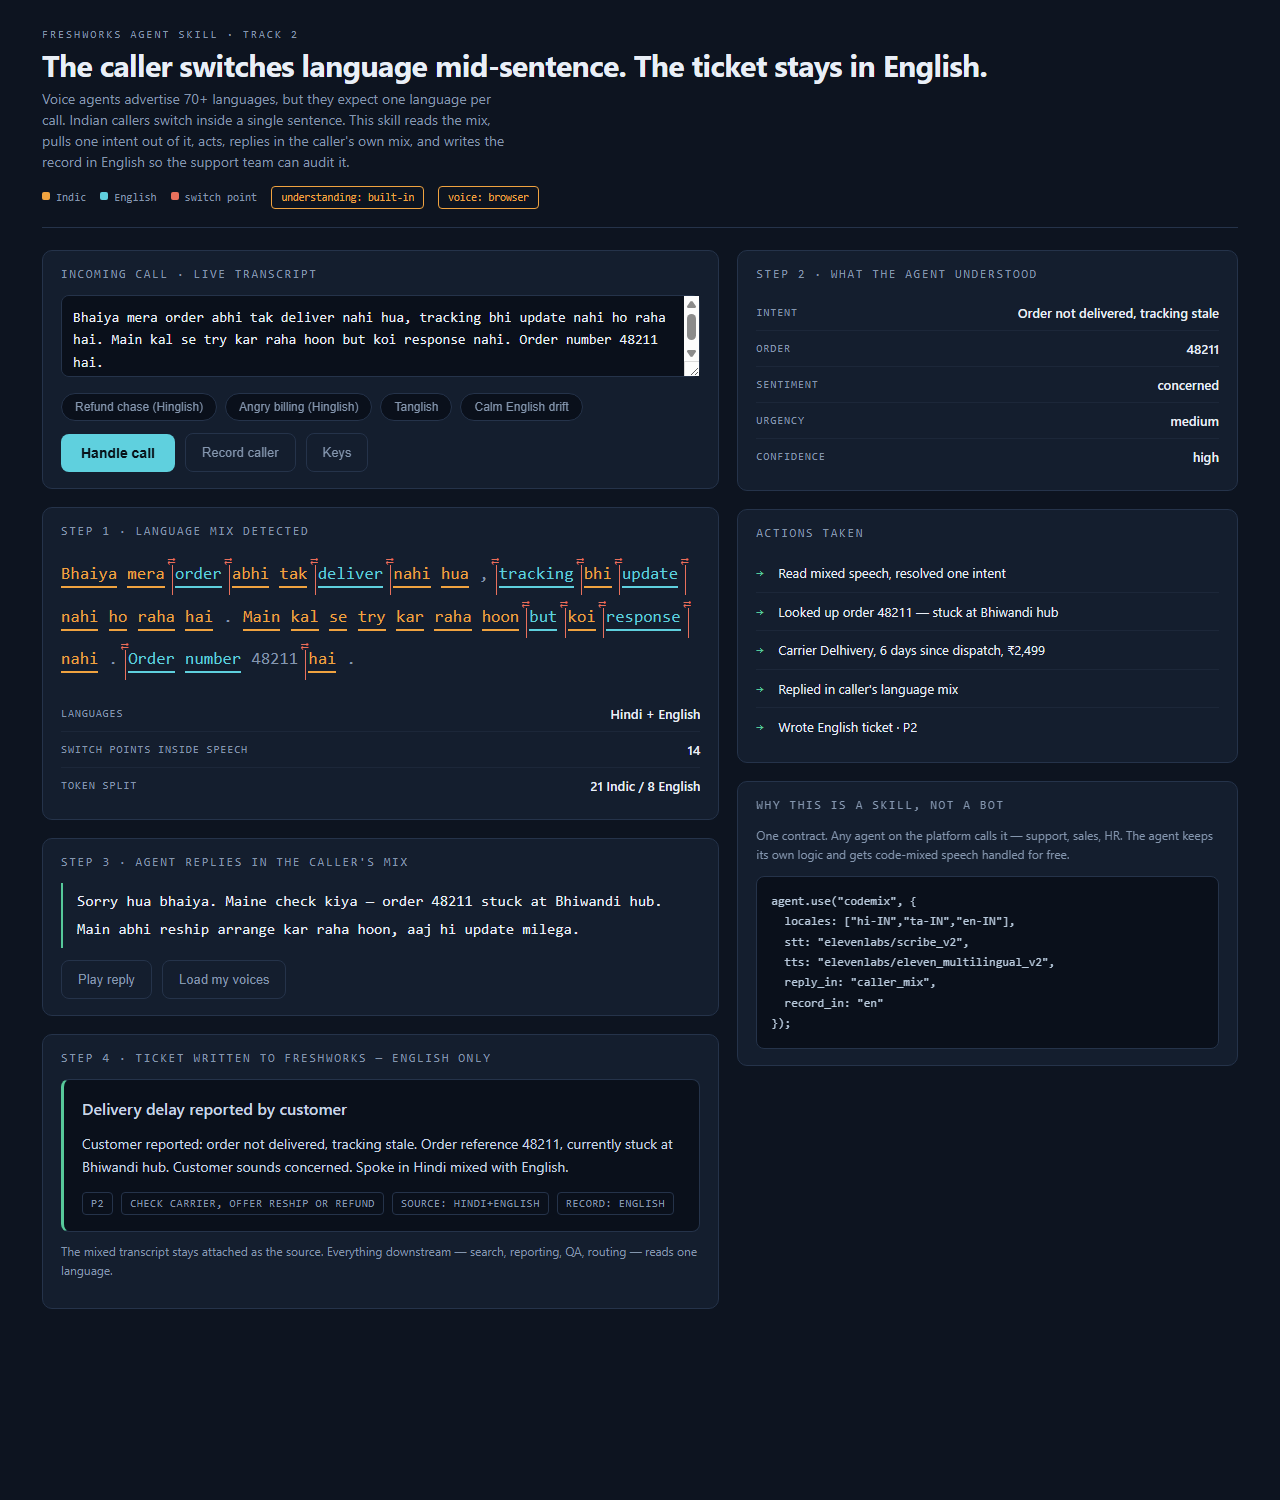
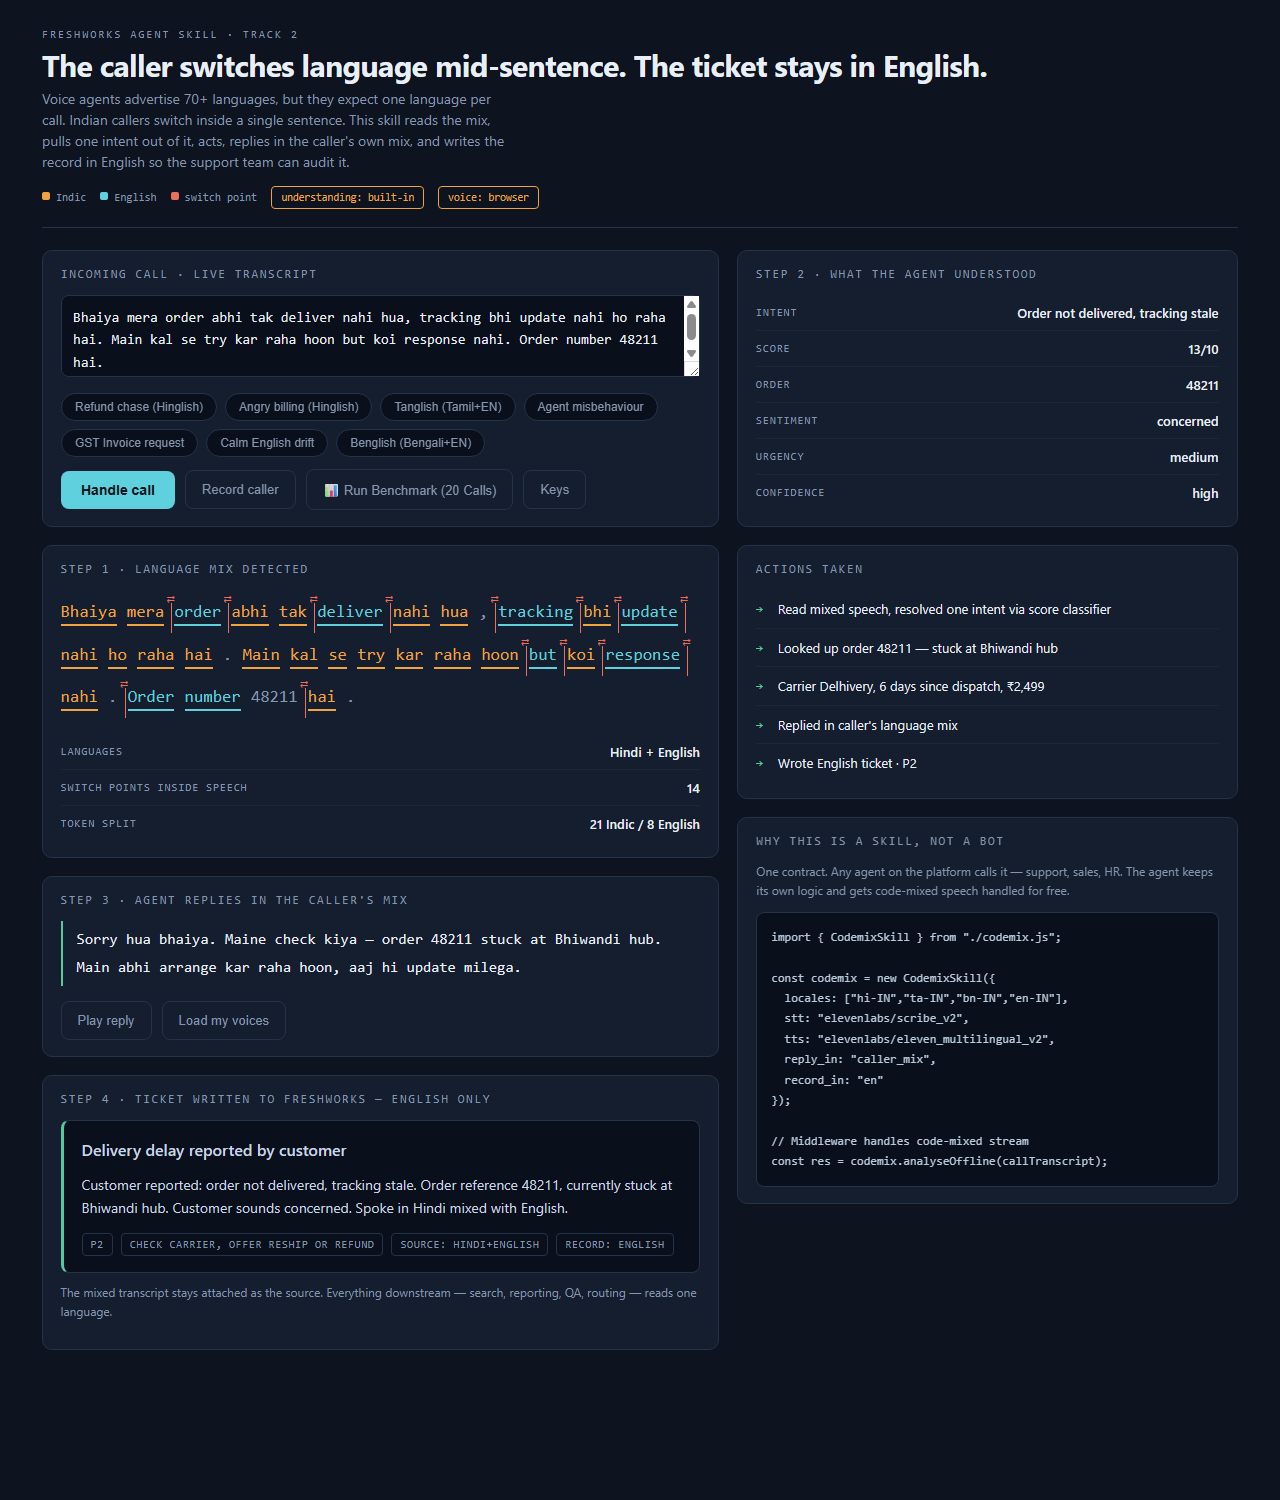
fix(browser): resolve module syntax error for classic script tags and add universal codemix.mjs wrapper

diff --git a/codemix.js b/codemix.js
@@ -725,7 +725,7 @@ Rules: "l" is "hi" for ANY Indic-language word written in Latin script (Hindi, T
   }
 }
 
-// Universal Module Definition (Browser Global + CommonJS + ES Module)
+// Universal Module Definition (Browser Global + Node CommonJS)
 if (typeof window !== "undefined") {
   window.CodemixSkill = CodemixSkill;
   window.CRM_ORDERS = CRM_ORDERS;
@@ -733,9 +733,13 @@ if (typeof window !== "undefined") {
   window.HELD_OUT_DATASET = HELD_OUT_DATASET;
   window.INTENT_RULES = INTENT_RULES;
 }
+if (typeof globalThis !== "undefined") {
+  globalThis.CodemixSkill = CodemixSkill;
+  globalThis.CRM_ORDERS = CRM_ORDERS;
+  globalThis.BENCHMARK_DATASET = BENCHMARK_DATASET;
+  globalThis.HELD_OUT_DATASET = HELD_OUT_DATASET;
+  globalThis.INTENT_RULES = INTENT_RULES;
+}
 if (typeof module !== "undefined" && module.exports) {
   module.exports = { CodemixSkill, CRM_ORDERS, BENCHMARK_DATASET, HELD_OUT_DATASET, EN_WORDS, INTENT_RULES };
 }
-
-// Named ES Module export
-export { CodemixSkill, CRM_ORDERS, BENCHMARK_DATASET, HELD_OUT_DATASET, INTENT_RULES, EN_WORDS };
